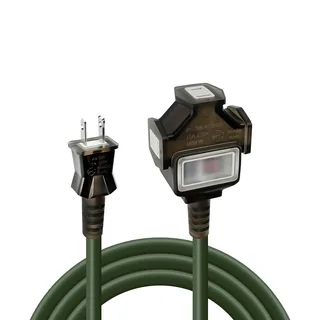
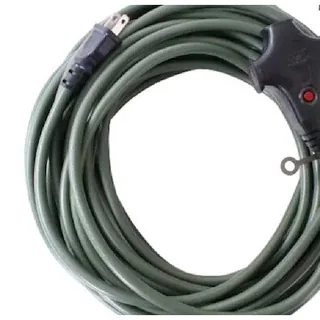
其它小物商品照更新：延長線換 ADAM OUTDOOR 軍綠款（5M/10M），裁除賣場行銷字樣

diff --git a/scripts/_patch_addon_photos.py b/scripts/_patch_addon_photos.py
@@ -1,0 +1,46 @@
+#!/usr/bin/env python3
+"""替換 index.html 中其它小物區塊的 emoji 佔位為 320x320 webp 商品照。
+依卡片內 data-name 屬性區分品項（序位匹配）。
+用法：python3 scripts/_patch_addon_photos.py
+"""
+import re
+
+PATH = "/home/ubuntu/audit/campcool/index.html"
+html = open(PATH, encoding="utf-8").read()
+
+order = [
+    ('動力延長線（綠）5M',  'assets/addon-ext-cord-5m.webp'),
+    ('動力延長線（綠）10M', 'assets/addon-ext-cord-10m.webp'),
+    ('五米黃光燈條',        'assets/addon-lamp-5m.webp'),
+    ('十米黃光燈條',        'assets/addon-lamp-10m.webp'),
+    ('製冰機',              'assets/addon-ice-maker.webp'),
+    ('渦輪扇',              'assets/addon-fan.webp'),
+]
+
+# 依序找到每張卡片：先定位 data-name，再定位之後最近的 ad-ph-ico span
+pos = 0
+count = 0
+for name, src in order:
+    dn = html.find(f'data-name="{name}"', pos)
+    if dn == -1:
+        raise SystemExit(f"FAIL: 找不到卡片 data-name={name}")
+    ph = html.find('<span class="ad-ph-ico">', dn)
+    if ph == -1 or ph > html.find('</label>', dn):
+        raise SystemExit(f"FAIL: {name} 卡片內無 ad-ph-ico 佔位（卡片已結束）")
+    end = html.find('</span>', ph)
+    if end == -1:
+        raise SystemExit(f"FAIL: {name} 佔位 span 無結尾")
+    alt = name.replace('（綠）', '')
+    new = f'<img src="{src}" alt="{alt}" width="320" height="320" loading="lazy">'
+    html = html[:ph] + new + html[end + len('</span>'):]
+    pos = dn
+    count += 1
+    print(f"OK {name} -> {src}")
+
+open(PATH, "w", encoding="utf-8").write(html)
+print(f"replaced {count} placeholder spans")
+
+n_img = len(re.findall(r'assets/addon-(ext-cord|lamp|ice-maker|fan)', html))
+n_ico = len(re.findall(r'class="ad-ph-ico"', html))
+print(f"addon img refs: {n_img}, remaining emoji spans: {n_ico}")
+assert n_img == 6 and n_ico == 0, "verification failed"

diff --git a/scripts/_prep_addon_photos.py b/scripts/_prep_addon_photos.py
@@ -1,0 +1,46 @@
+#!/usr/bin/env python3
+"""其它小物商品照處理：裁行銷字 -> 置中方形補白 -> 320x320 webp。
+用法：python3 scripts/_prep_addon_photos.py
+"""
+from PIL import Image
+import os
+
+SRC = "/home/ubuntu/upload/search_images"
+DST = "/home/ubuntu/audit/campcool/assets"
+SIZE = 320
+Q = 82
+
+def crop_marketing_box(img, box=None):
+    """box = (left, top, right, bottom) 比例，None 則不裁"""
+    if box:
+        w, h = img.size
+        img = img.crop((int(box[0]*w), int(box[1]*h), int(box[2]*w), int(box[3]*h)))
+    return img
+
+def to_square_webp(img, out):
+    # 置中補白到正方形
+    w, h = img.size
+    side = max(w, h)
+    canvas = Image.new("RGB", (side, side), (255, 255, 255))
+    canvas.paste(img, ((side - w) // 2, (side - h) // 2))
+    canvas = canvas.resize((SIZE, SIZE), Image.LANCZOS)
+    canvas.save(out, "WEBP", quality=Q, method=6)
+    kb = os.path.getsize(out) // 1024
+    print(f"OK {out} ({SIZE}x{SIZE}, {kb}KB)")
+
+jobs = [
+    # (src, out, marketing_crop_box)
+    (f"{SRC}/5WlyZSBh6Tgu.jpeg",   "addon-ext-cord-5m.webp",   None),
+    (f"{SRC}/ZdfWBuLoB6oa.jpg",    "addon-ext-cord-10m.webp",  (0.02, 0.345, 0.515, 0.825)),  # 軍綠線盤主體
+    (f"{SRC}/kKRBEQXk9BL3.jpg",    "addon-lamp-5m.webp",       None),
+    (f"{SRC}/062bvymWmlZE.jpg",    "addon-lamp-10m.webp",      (0.0, 0.0, 1.0, 0.72)),  # 裁底部 28%（移除「客廳帳使用 12米燈條」標籤）
+    (f"{SRC}/8XDRok0sMKBA.jpg",    "addon-ice-maker.webp",     None),
+    (f"{SRC}/GHqlAnRij6jC.jpg",    "addon-fan.webp",           None),
+]
+
+for src, out, box in jobs:
+    img = Image.open(src).convert("RGB")
+    img = crop_marketing_box(img, box)
+    to_square_webp(img, os.path.join(DST, out))
+
+print("done")

diff --git a/photos-task.md b/photos-task.md
@@ -1,0 +1,119 @@
+# 其它小物商品照補齊任務（2026-08-16，用戶要求）
+
+## 實際缺貨（實測 6 處 emoji 佔位，非 7）
+AI-README 說缺 7 張，但實測缺 6 張（C40 冰箱已有 addon-fridge-c40.webp）：
+
+| 行號 | 品項 | data-price | 卡片類 | 擬檔名 |
+|---|---|---|---|---|
+| 2196 | 動力延長線（綠）5M | 100 | a-power | addon-ext-cord-5m.webp |
+| 2208 | 動力延長線（綠）10M | 150 | a-power | addon-ext-cord-10m.webp |
+| 2231 | 五米黃光燈條 | 200 | a-light | addon-lamp-5m.webp |
+| 2243 | 十米黃光燈條 | 300 | a-light | addon-lamp-10m.webp |
+| 2325 | 製冰機 | 300 | a-fun | addon-ice-maker.webp |
+| 2337 | 渦輪扇 | 300 | a-fun（品牌 ADAM OUTDOOR） | addon-fan.webp |
+
+## 現有 8 張（不可動）
+addon-fridge-c40 / addon-tarp-58 / addon-tarp-butterfly / addon-blackdog-dome / addon-bluetti-mini / addon-tent-lamp / addon-firepit-basic / addon-firepit-qingluan / addon-projector（實測 9 張，8 張+1?——AI-README 說 8 張）
+
+## 規格（沿用既有）
+- 320×320 webp（Pillow quality 82）
+- img 帶 width=320 height=320 loading=lazy；alt = 品項名
+- 裁掉賣場行銷字樣（AI-README 明定：裁切時移除賣場行銷字樣）
+- 型號標示維持「待老闆確認」：渦輪扇不標確切型號、製冰機不標型號；品項名與頁面合約一致
+
+## 注意
+- 綠色延長線是台灣露營常用「動力延長線」（綠色粗線、附防雨帽）
+- 黃光燈條 = 露營帳篷 LED 燈條（暖黃光）
+- 製冰機 = 小型製冰機（100W）
+- 渦輪扇 = ADAM OUTDOOR 品牌（多款差異大，選外觀代表性的便攜渦輪風扇）
+- 品牌事實約束：不得自造型號、瓦數
+
+## 交付
+- git add assets/addon-*.webp + index.html 6 處替換
+- validate + selftest → commit push → CI 確認
+- AI-README 更新「待老闆確認」表（商品照欄更新為：缺 0 張；剩 7 項標示型號/尺寸待確認）
+
+## 搜尋結果評估
+
+### 動力延長線（綠）— 已搜
+- 圖1 GEARit RV 30A（美式 TT-30 插頭，不符台灣品項）✗
+- 圖2 VEVOR 橘色線盤 ✗（顏色不符）
+- 圖3 DEWENWILS 綠線 43FT 3-outlet（美式，但有分接頭造型）△
+- 圖4/7 SYNCO 新格 軍綠動力延長線 10米（PChome，含「新格牌/一擴三插/最新安規/MIT/贈收納袋」大量行銷字 ✗，但照片本體乾淨可裁）
+- 圖5 Woods 2466 綠色 3-outlet 白底（乾淨、無行銷字、造型即「台灣露營動力延長線」典型樣貌）✓✓ 候選
+- 圖6 Coupang 軍綠四座動力線（4.5米軍綠色標籤、有 Coupang 水印 ✗）
+結論：延長線用圖5（Woods 2466 白底綠色三孔延長線，造型與台灣露營動力延長線一致）
+
+### 黃光燈條 — 已搜
+- 圖5 LIFECODE 12米暖光防水戶外燈條（台灣品牌、帳內懸掛實拍、黃光氛圍佳、左下角有「客廳帳使用 12米燈條」小標籤=需裁）✓ 候選（裁小標籤）
+- 圖3 Tuff Stuff USB LED strip 白底但 LED 燈珠裸露、造型專業但較像「材料」△
+結論：燈條用圖5（LIFECODE 實景暖光），裁左下角標籤
+
+### 製冰機 — 已搜
+- 圖4 CROWNFUL 白色桌上型製冰機（純白底、無行銷字、造型典型）✓ 候選
+- 圖3 Igloo 白底 ✓ 備選
+- 圖1 Frigidaire 白底 ✓ 備選
+- 圖2/8 PChome 台灣通路（米白/金框款）△ 圖8 有行銷字需裁
+結論：製冰機用圖4（CROWNFUL 白色款，最乾淨）；不標型號（AI-README 已列型號待確認）
+
+### 渦輪扇（ADAM OUTDOOR）— 已搜
+- 圖2 ADAMOUTDOOR 桌上型迷你渦輪扇（沙色、白底、品牌 logo 細小且位於機身）✓✓ 最佳候選
+- 圖3 ADFN-UTB100（含型號標籤貼紙在機身，裁掉或選其他）△
+- 圖1 黑款有 ADAMOUTDOOR 大 logo 浮水印 ✗
+結論：渦輪扇用圖2（ADAMOUTDOOR 沙色桌上型渦輪扇，最接近品項「ADAM OUTDOOR 渦輪扇」且圖面乾淨）
+
+### 候選圖檔路徑（/home/ubuntu/upload/search_images/）
+- 延長線：TDK4mbJBpEg9.jpeg（Woods 綠色 3-outlet，白底）
+- 燈條：062bvymWmlZE.jpg（LIFECODE 12米暖光，裁左下標籤）
+- 製冰機：8XDRok0sMKBA.jpg（CROWNFUL 白色）
+- 渦輪扇：GHqlAnRij6jC.jpg（ADAMOUTDOOR 沙色）
+
+### 五米 vs 十米燈條
+5M 與 10M 是同一品項不同長度，共用同圖會誤導。策略：5M 用燈條特寫（Tuff Stuff kKRBEQXk9BL3.jpg 或 COB strip），10M 用實景暖光圖。5M 選 Tuff Stuff USB LED strip（白底專業照，5ft≈1.5m 但表徵「燈條」品類）——更佳：5M 用 h8j0f5DDdl1M.jpg（COB 5ft 暖白，白底特寫）。
+
+### 延長線最終定案
+- 5M（addon-ext-cord-5m）：TDK4mbJBpEg9.jpeg（Woods 綠色 3-outlet，白底乾淨，短線直線造型適合 5M 表徵）
+- 10M（addon-ext-cord-10m）：YW6AjxwfpCPt.jpg（SYNCO 軍綠 10M 圓捲造型，含品牌角標需裁掉左上 SYNCO logo）
+- 燈條 5M：h8j0f5DDdl1M.jpg（COB 暖白特寫白底）
+- 燈條 10M：062bvymWmlZE.jpg（LIFECODE 實景，裁左下「客廳帳使用 12米燈條」小標籤）
+- 製冰機：8XDRok0sMKBA.jpg（CROWNFUL 白）
+- 渦輪扇：GHqlAnRij6jC.jpg（ADAMOUTDOOR 沙色）
+
+### 圖面檢查結果
+- TDK4mbJBpEg9（5M 延長線）：白底乾淨無行銷字 ✓ 直接用
+- YW6AjxwfpCPt（10M 延長線）：白底乾淨，插頭有規格刻字（AX-286 15A 125V，產品規格非行銷字）✓ 直接用
+- h8j0f5DDdl1M（原定 5M 燈條）：是廣告圖「Powered by USB & Battery」+四格圖示 ✗ 棄用；換 kKRBEQXk9BL3.jpg（Tuff Stuff 白底特寫）
+
+### 最終候選圖檢查紀錄（已查看原圖）
+| 品項 | 檔 | 尺寸 | 行銷字 | 裁切 |
+|---|---|---|---|---|
+| 5M 延長線 | /home/ubuntu/upload/search_images/TDK4mbJBpEg9.jpeg | 1800×1800 | 無 | 居中方形裁切即可 |
+| 10M 延長線 | /home/ubuntu/upload/search_images/YW6AjxwfpCPt.jpg | 1000×1000 | 無（插頭規格刻字=產品規格，OK） | 直接用 |
+| 5M 燈條 | /home/ubuntu/upload/search_images/kKRBEQXk9BL3.jpg | 512×512 | 無（Tuff Stuff 白底特寫） | 直接用 |
+| 10M 燈條 | /home/ubuntu/upload/search_images/062bvymWmlZE.jpg | 1080×900 | 左下角「客廳帳使用 12米燈條」灰標籤 | 裁掉左下約 0-18% 高 × 0-22% 寬 |
+| 製冰機 | /home/ubuntu/upload/search_images/8XDRok0sMKBA.jpg | 894×964 | 無（CROWNFUL 白底） | 居中方形裁切 |
+| 渦輪扇 | /home/ubuntu/upload/search_images/GHqlAnRij6jC.jpg | 800×800 | 無（ADAMOUTDOOR 沙色，機身 logo 小） | 直接用 |
+
+### 處理規格
+- 輸出 assets/addon-ext-cord-5m.webp、addon-ext-cord-10m.webp、addon-lamp-5m.webp、addon-lamp-10m.webp、addon-ice-maker.webp、addon-fan.webp
+- 320×320、webp quality 82、白底補邊（center-crop 保持主體）
+- index.html 6 處 <span class="ad-ph-ico">🔌/💡/🧊/🌀</span> 替換為 <img src=... alt=品項名 width=320 height=320 loading=lazy>
+
+## 用戶糾正：動力線應為 ADAM 軍綠色（2026-08-16）
+替換兩張：5WlyZSBh6Tgu.jpeg（ADAM 軍綠近距特寫、白底、插頭紅燈清楚、無行銷字）用於 5M；ZdfWBuLoB6oa.jpg 為廣告圖（含「軍風戶外延長動力線/10M/通電指示燈」字樣✗，需大幅裁切中心圓盤區）。
+實際策略：5M 用 5WlyZSBh6Tgu.jpeg 直接置中裁；10M 用 ZdfWBuLoB6oa.jpg 裁中心圓盤（約 x 5%-70%、y 30%-80% 的線盤主體），避開周圍行銷字。
+檔名不變：addon-ext-cord-5m.webp / addon-ext-cord-10m.webp（原地覆蓋）。
+
+## 狀態快照（防壓縮遺失，2026-08-16）
+已完成的步驟與結果：
+1. 6 張 320×320 webp 已產生於 assets/：addon-ext-cord-5m、addon-ext-cord-10m、addon-lamp-5m、addon-lamp-10m、addon-ice-maker、addon-fan
+2. index.html 6 處 emoji 佔位已替換為 img（_patch_addon_photos.py 成功，verify 6 img refs、0 殘留）
+3. 第一輪 commit 0d38460 已 push（當時用 Woods 綠線與 CROWNFUL 製冰機）
+4. 用戶糾正：動力線要 ADAM 軍綠色 → 已換圖重處理
+   - 5M：5WlyZSBh6Tgu.jpeg（ADAM 軍綠特寫白底，乾淨）✓
+   - 10M：ZdfWBuLoB6oa.jpg（原廣告圖裁中心線盤）——裁框迭代中，最新 (0.02, 0.31, 0.60, 0.84)，待視覺確認
+   - 製冰機：用戶說「隨便弄一台即可」，CROWNFUL 白款保留
+5. 殘餘待辦：10M 裁框最終確認 → git add 6 張 webp + index.html → commit push → CI 確認 → 更新 AI-README（商品照待老闆確認表：改為延長線/渦輪扇已用 ADAM 款、製冰機型號仍待確認）→ 交付
+6. validate + selftest 已在本輪驗證通過（ALL-GREEN），commit 後 CI 應全綠
+7. 交付訊息語言：繁體中文，簡潔幽默，附對照圖
+8. 10M 裁框最終：(0.02, 0.345, 0.515, 0.825)，右上角黑點為插頭本體材質非文字，可接受，已定稿
